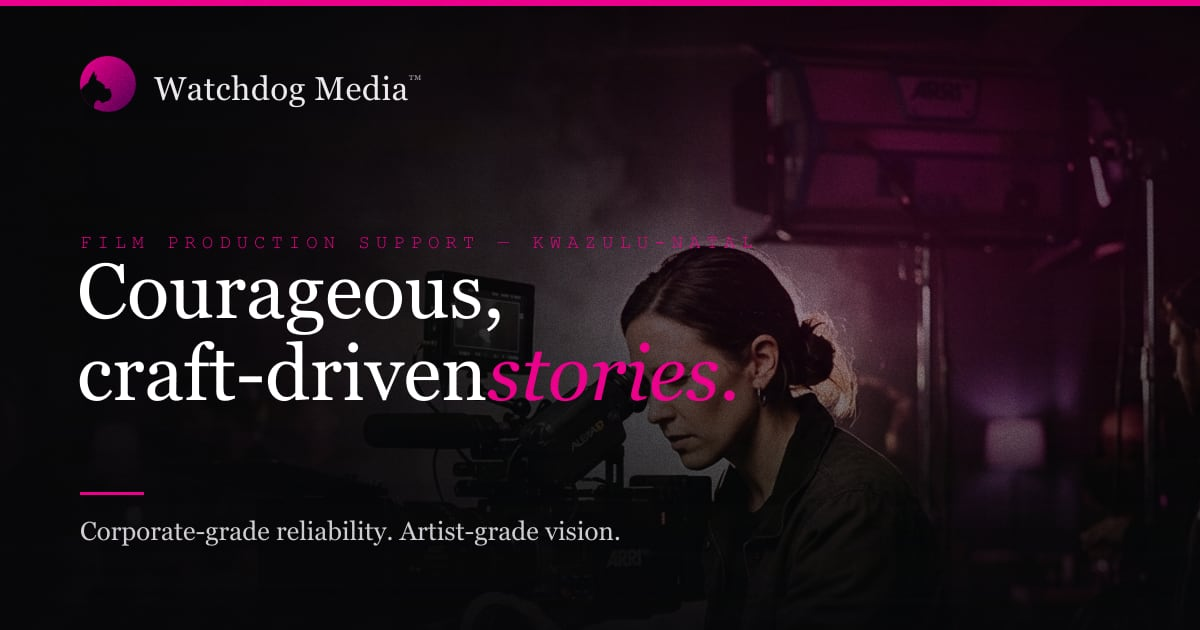
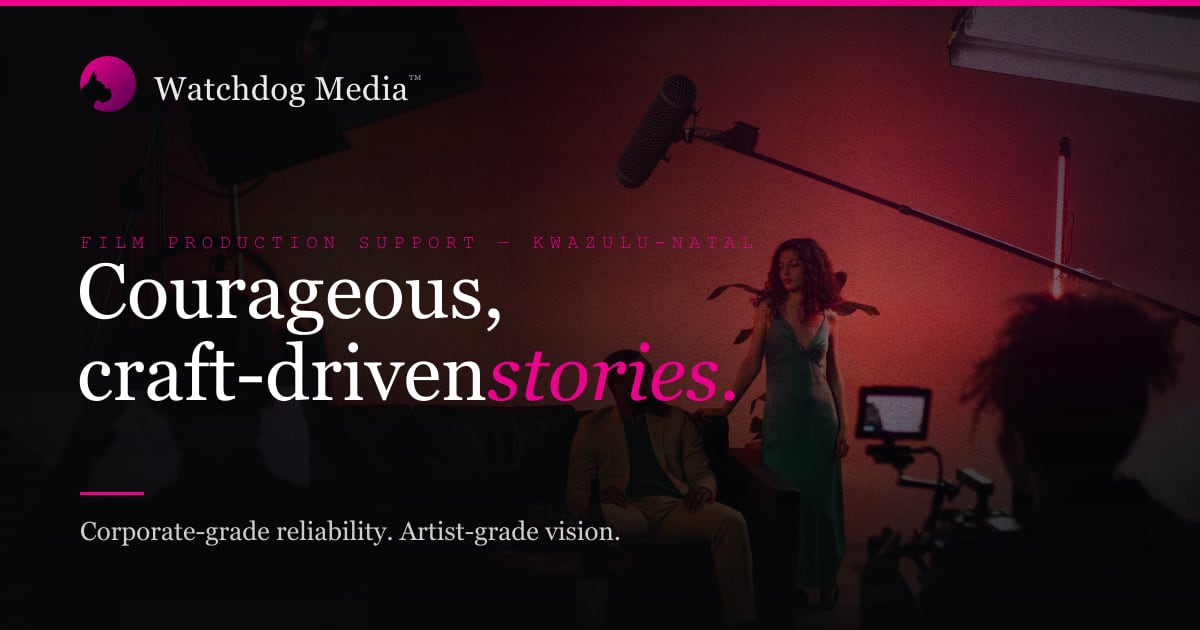
feat: swap hero to a Black-led film set (interim); regenerate home OG; remove unused hero images

Changed region(s): [[0.3392, 0.0, 1.0, 0.8746], [0.8017, 0.8143, 0.8633, 0.8444], [0.8942, 0.8746, 0.925, 0.9048]]

diff --git a/src/app/components/hero-section.tsx b/src/app/components/hero-section.tsx
@@ -20,12 +20,12 @@ export default function HeroSection() {
       {/* Cinematic key art */}
       <div className='absolute inset-0'>
         <Image
-          src='/images/wm-hero-cinematic.png'
-          alt='A camera operator frames a shot on an ARRI cinema camera, lit in deep magenta on a film set.'
+          src='/images/hero-set.jpg'
+          alt='A camera operator and crew shoot a scene on a film set lit in deep red, actors on a couch in frame.'
           fill
           priority
           sizes='100vw'
-          className='object-cover object-[60%_center]'
+          className='object-cover object-center'
         />
         {/* Legibility: vertical + left scrim so the headline always reads */}
         <div

diff --git a/src/app/layout.tsx b/src/app/layout.tsx
@@ -96,7 +96,7 @@ const jsonLd = {
       foundingDate: String(site.founded),
       slogan: site.tagline,
       logo: `${site.url}/brand/avatar-512.png`,
-      image: `${site.url}/images/wm-hero-cinematic.png`,
+      image: `${site.url}/images/hero-set.jpg`,
       address: {
         '@type': 'PostalAddress',
         streetAddress: site.address.line1,